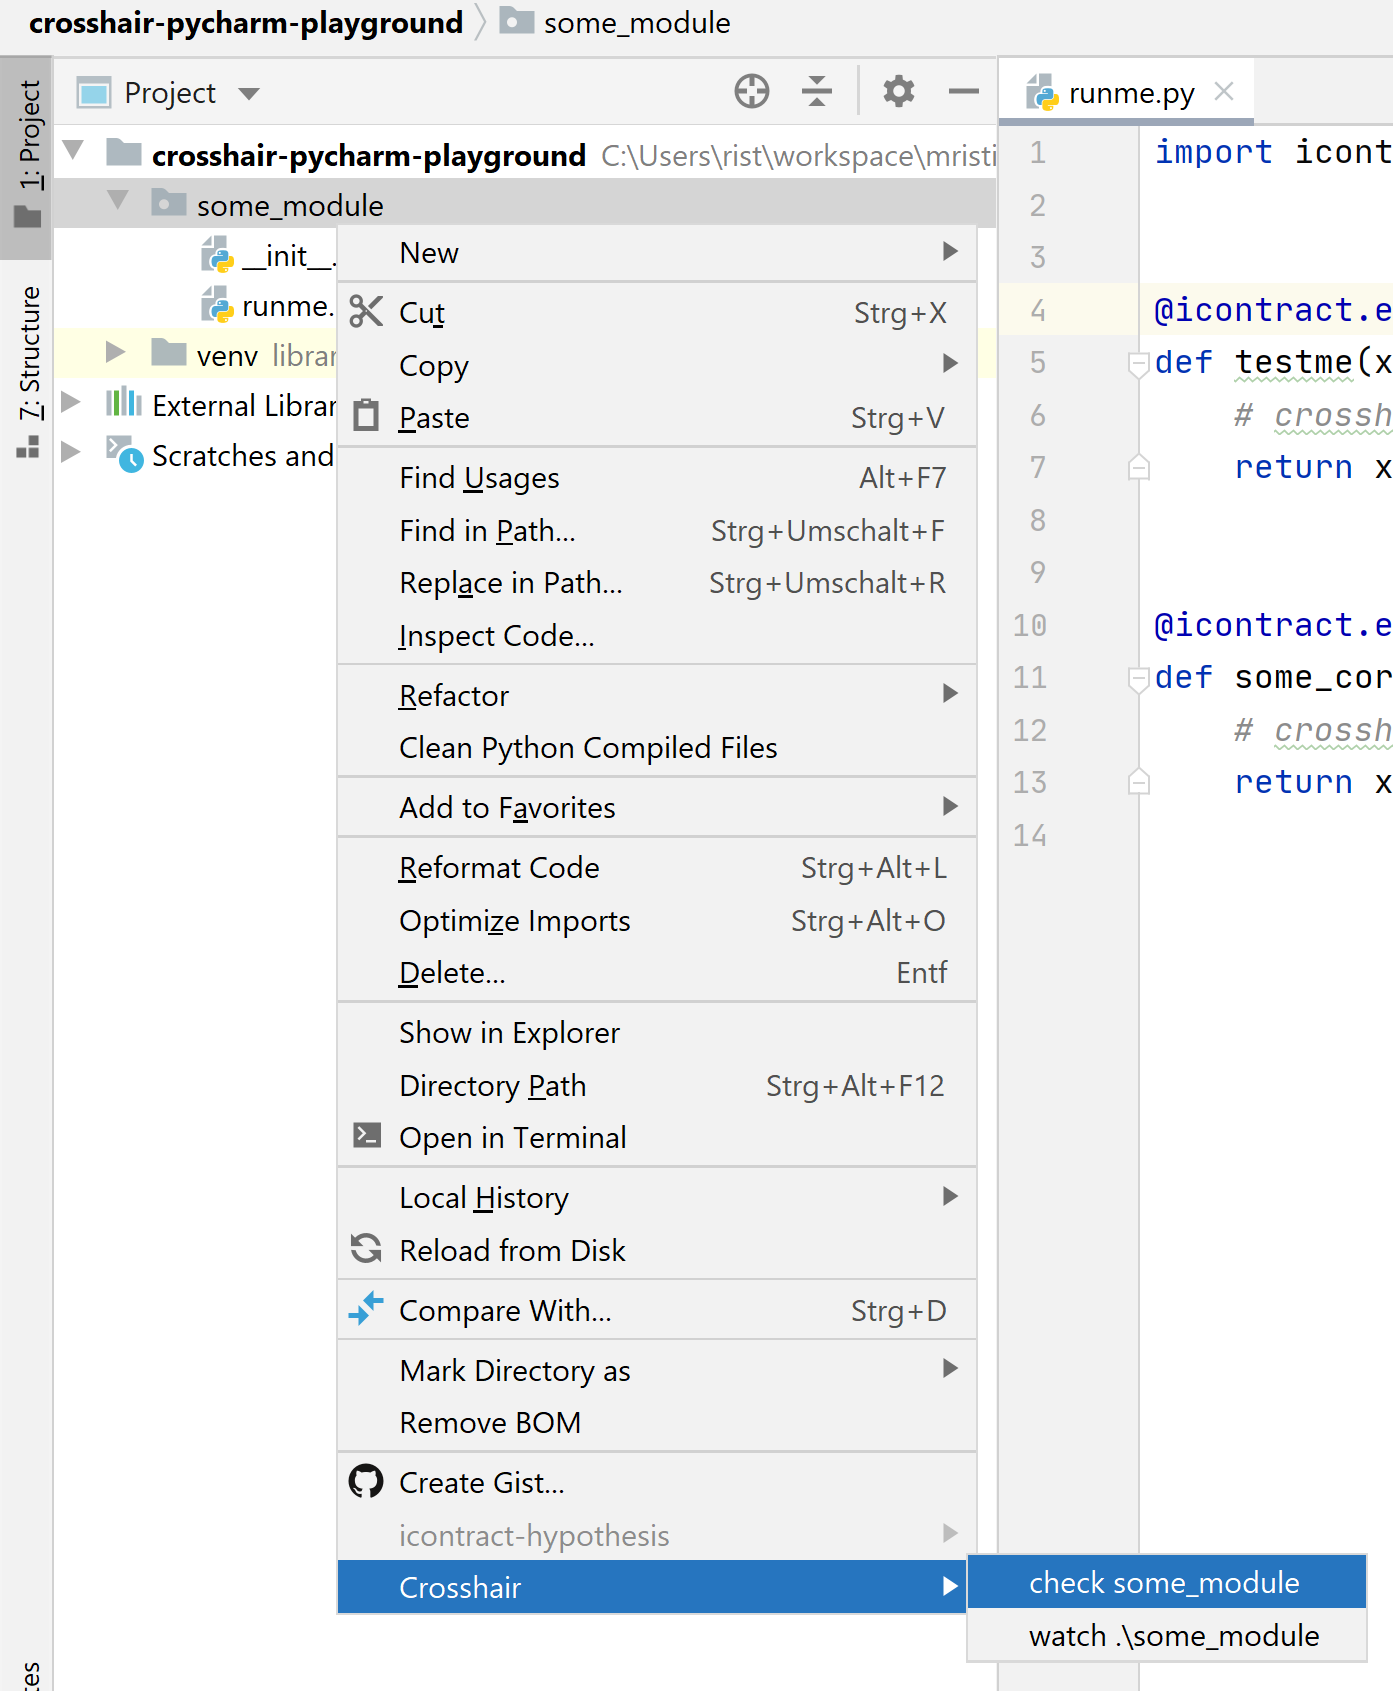
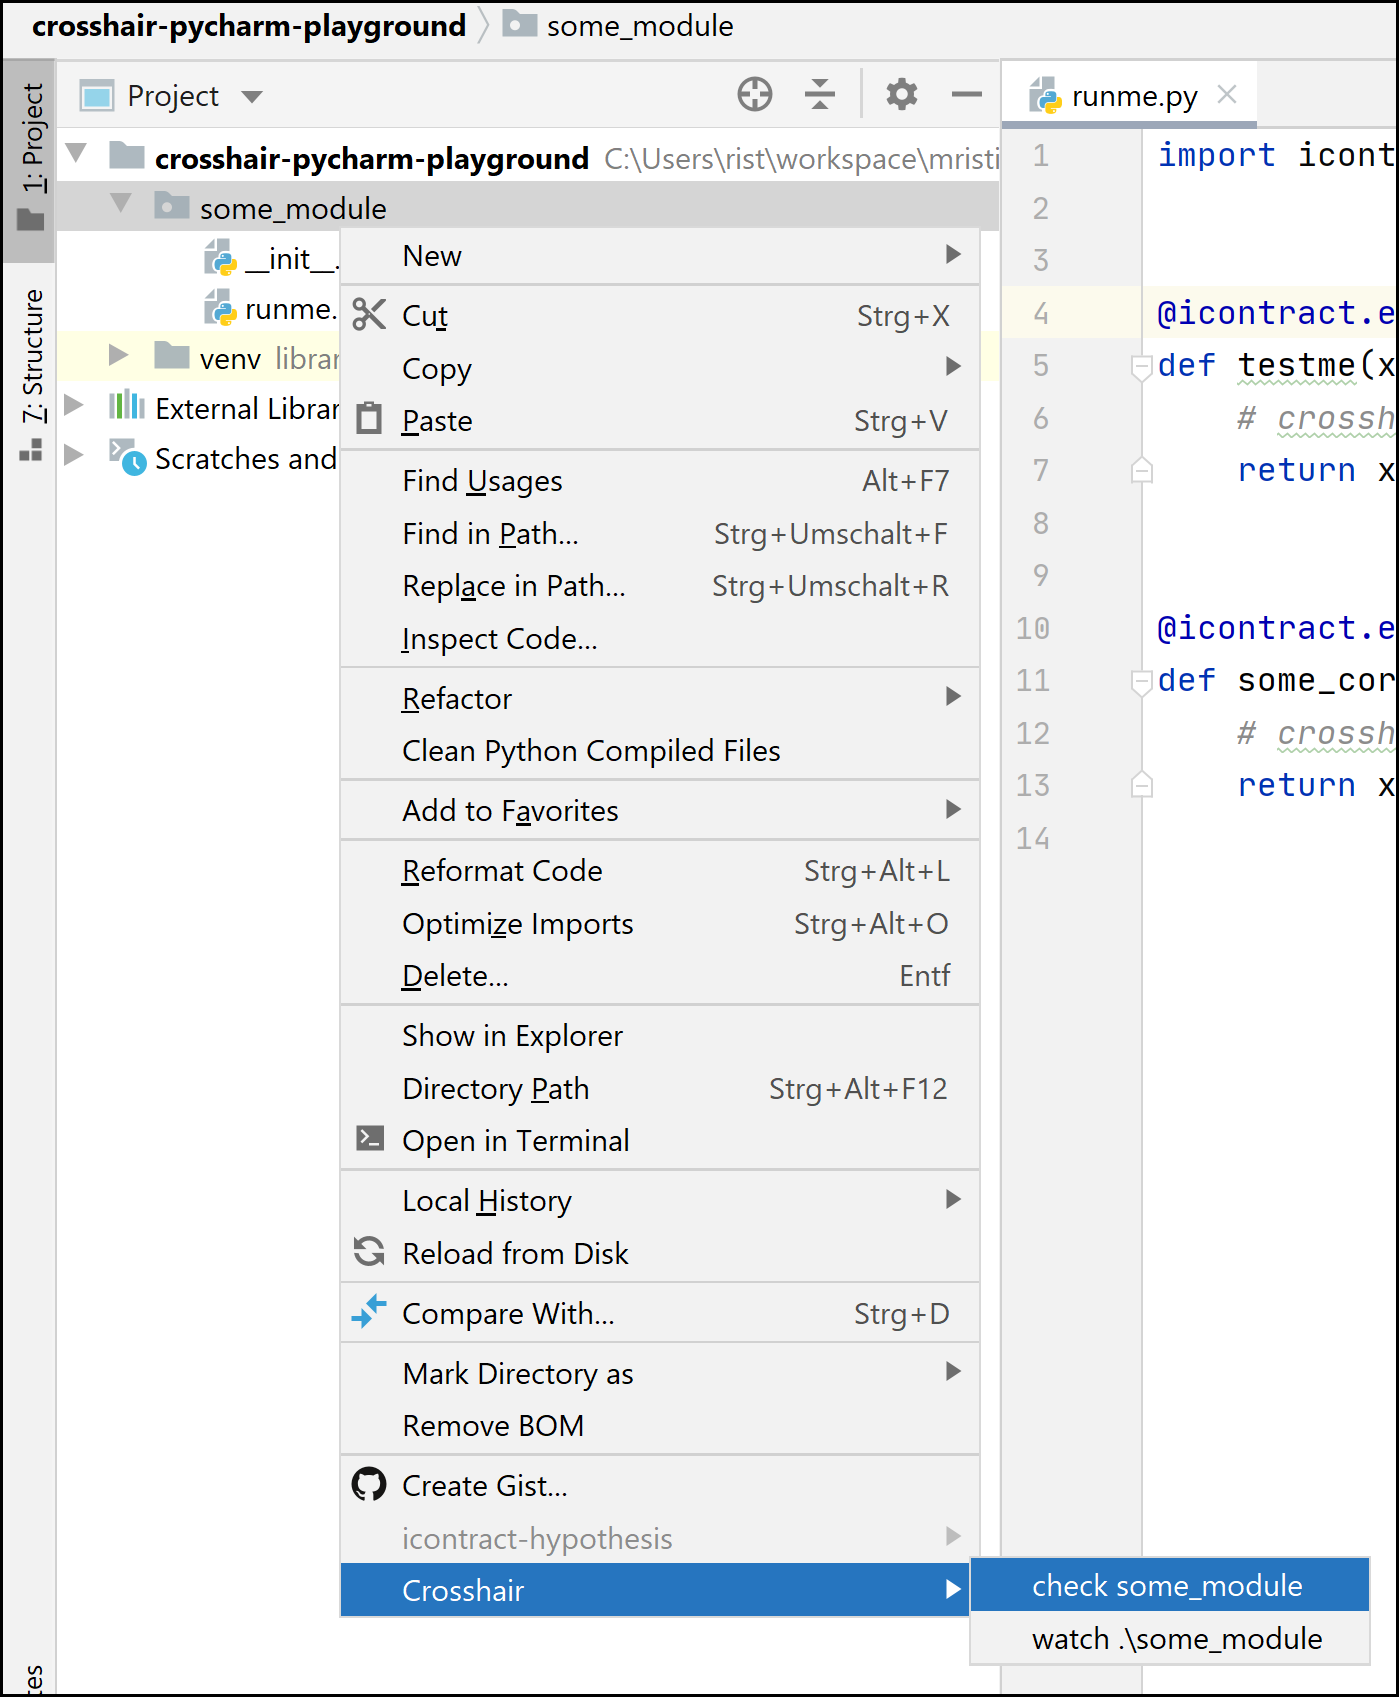
Add borders to screenshots
Markdown platforms often do not support `border` attribute on `<img>`,
so we add borders to screenshots directly in this patch.

diff --git a/README.md b/README.md
@@ -16,8 +16,8 @@ Use [Plug-in manager] in your PyCharm: File ⟶ Settings ⟶ Plugins.
 
 Select `crosshair-pycharm`.
 
-<img src="readme/settings.png" width=300 alt="settings" border=1/>
-<img src="readme/settings-plugins.png" width=400 alt="settings-plugins" border=1/>
+<img src="readme/settings.png" width=300 alt="settings" />
+<img src="readme/settings-plugins.png" width=400 alt="settings-plugins" />
 
 **Install crosshair-tool**.
 As crosshair-pycharm is only a thin wrapper around [crosshair-tool], please install
@@ -25,9 +25,9 @@ As crosshair-pycharm is only a thin wrapper around [crosshair-tool], please inst
 
 For example, through: File ⟶ Settings ⟶ Project ⟶ Python Interpreter.
 
-<img src="readme/settings.png" width=300 alt="settings" border=1/>
-<img src="readme/settings-project-interpreter.png" width=600 alt="settings-project-interpreter" border=1/>
-<img src="readme/settings-install-package.png" width=600 alt="settings-install-package" border=1/>
+<img src="readme/settings.png" width=300 alt="settings" />
+<img src="readme/settings-project-interpreter.png" width=600 alt="settings-project-interpreter" />
+<img src="readme/settings-install-package.png" width=600 alt="settings-install-package" />
 
 If you are writing a package using [`setup.py`], you might want to include
 [crosshair-tool] in [your test dependencies].
@@ -40,18 +40,18 @@ If you are writing a package using [`setup.py`], you might want to include
 You can use crosshair-pycharm from within an editor (with an open Python file) through
 the editor pop-up menu:
 
-<img src="readme/editor-popup.png" width=900 alt="editor pop-up menu" border=1/>
+<img src="readme/editor-popup.png" width=900 alt="editor pop-up menu" />
 
 Alternatively, you can select a file in the project view and access crosshair-pycharm
 through the project view pop-up menu:
 
-<img src="readme/project-view-popup-file.png" width=450 alt="project view pop-up menu on a file" border=1/>
+<img src="readme/project-view-popup-file.png" width=450 alt="project view pop-up menu on a file" />
 
 A module containing multiple submodules can also be selected in which case both 
 the parent module, and the children modules are going to be verified (or in case of 
 `watch` command, watched recursively):
 
-<img src="readme/project-view-popup-directory.png" width=450 alt="project view pop-up menu on a directory" border=1/>
+<img src="readme/project-view-popup-directory.png" width=450 alt="project view pop-up menu on a directory" />
 
 You can also select a directory which is not a proper Python module (*e.g.*, lacks 
 the `__init__.py`).
